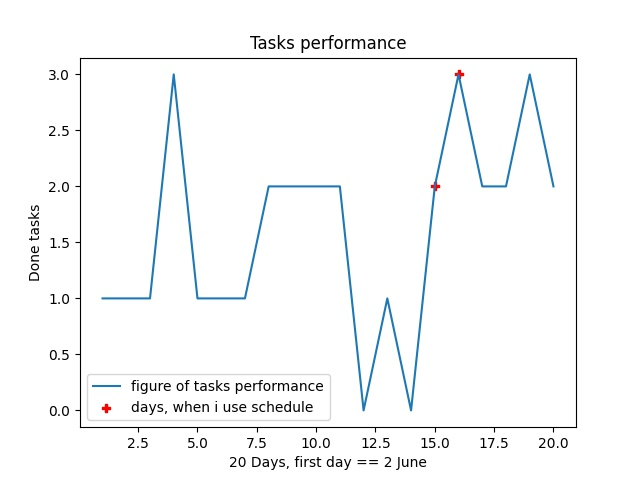
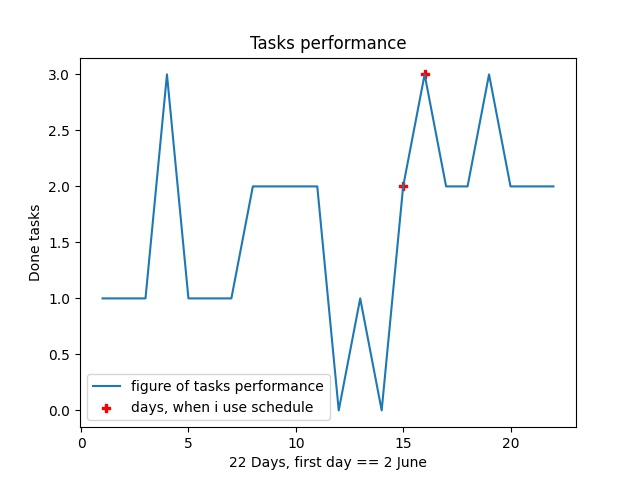
Automated sync by sync shell script

diff --git a/Statistic/Statistic.py b/Statistic/Statistic.py
@@ -4,7 +4,8 @@ import numpy as np
 
 def main():
     fig, ax = plt.subplots()  # ax - axes or array of axes
-    y = np.array([1, 1, 1, 3, 1, 1, 1, 2, 2, 2, 2, 0, 1, 0, 2, 3, 2, 2, 3, 2, 2, 2])
+    y = np.array([1, 1, 1, 3, 1, 1, 1, 2, 2, 2, 2, 0, 1, 0, 2, 3, 2, 2, 3, 2, 2, 2, 2, 2, 2, 3
+                  ])
     x = np.array(range(1, len(y) + 1))
     schedule_y = np.array([2, 3])
     schedule_x = np.array([15, 16])
@@ -22,4 +23,3 @@ def main():
 
 if __name__ == '__main__':
     main()
-
